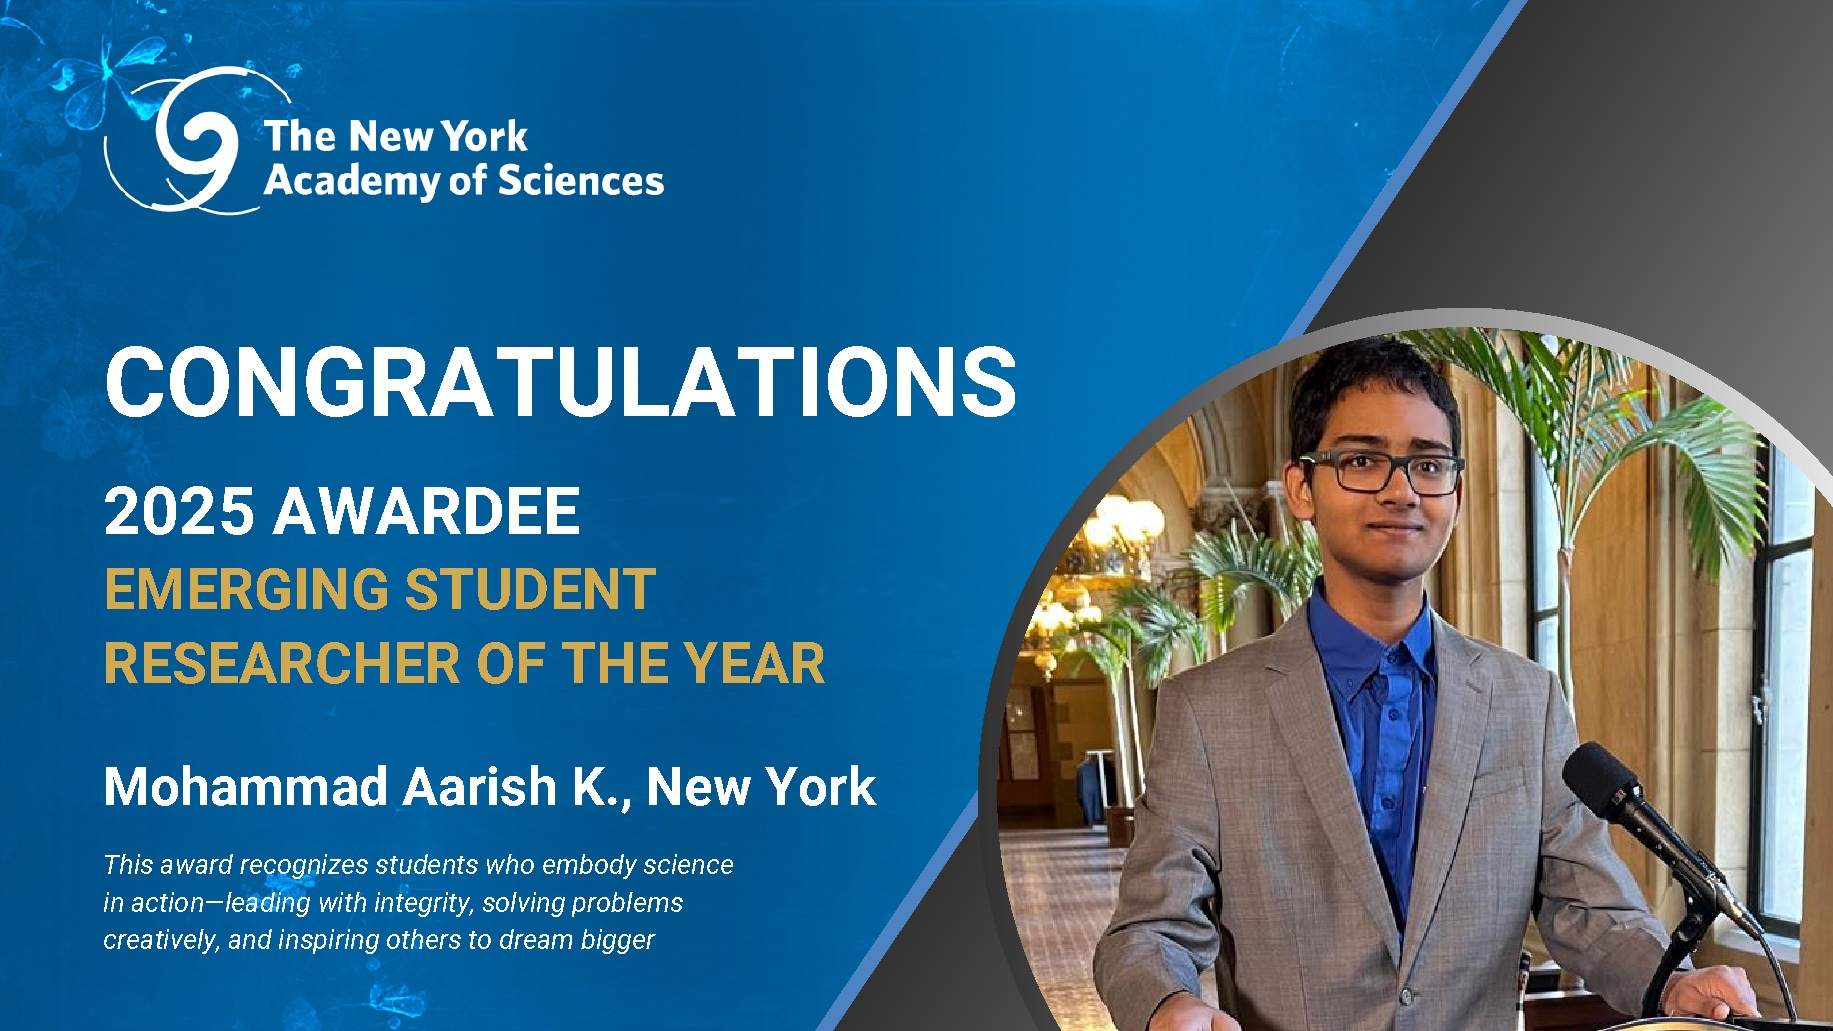
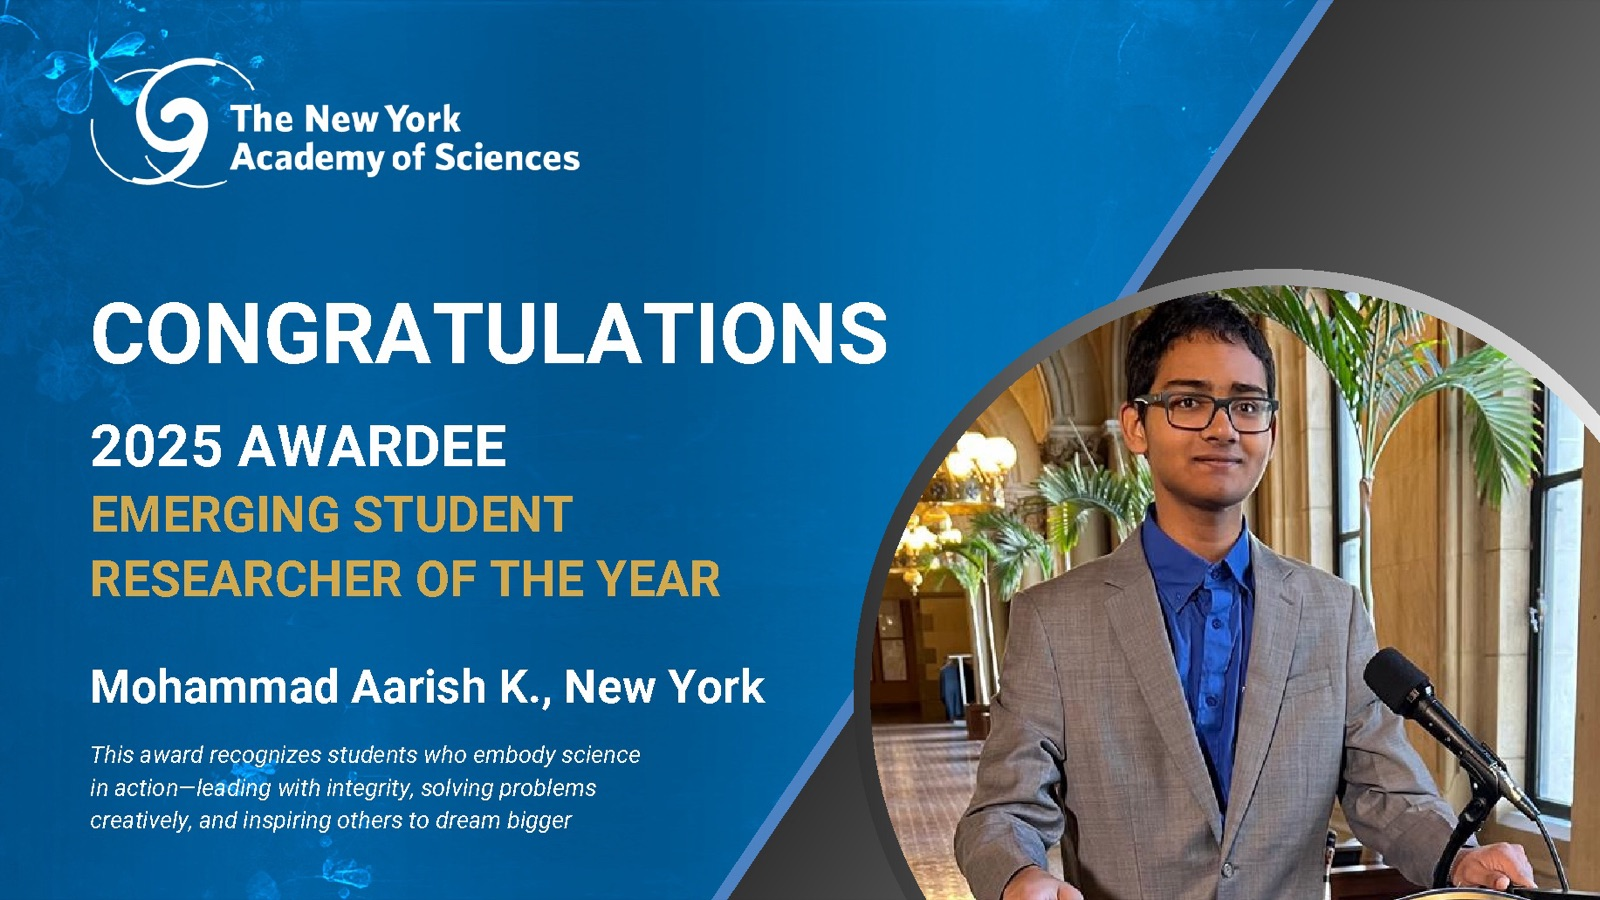
updates

Changed region(s): [[0.1562, 0.56, 0.1875, 0.5911], [0.0625, 0.9022, 0.0938, 0.9333]]

diff --git a/app/presentations/page.tsx b/app/presentations/page.tsx
@@ -3,7 +3,7 @@ import { PageHeader } from '@/components/layout/page-header';
 
 export const metadata = {
   title: 'Presentations and Posters',
-  description: 'Conference talks and research posters presented at IFoRE, ACS NERD, SmallSat, and IEEE ISEC.',
+  description: 'Conference talks and research posters by Mohammad Aarish Khan, presented at the NASA SmallSat Education Conference, ACS NERD, IFoRE, IEEE ISEC, the Terra Science Fair and the Global Impact Council Conference.',
   alternates: { canonical: '/presentations' },
 };
 
